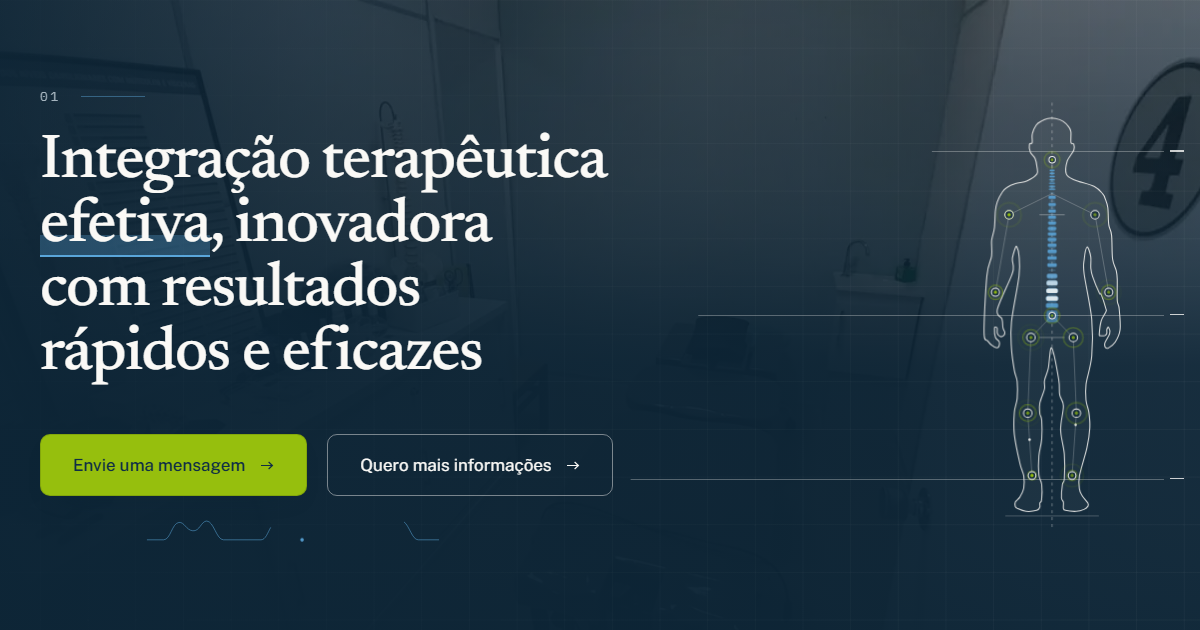
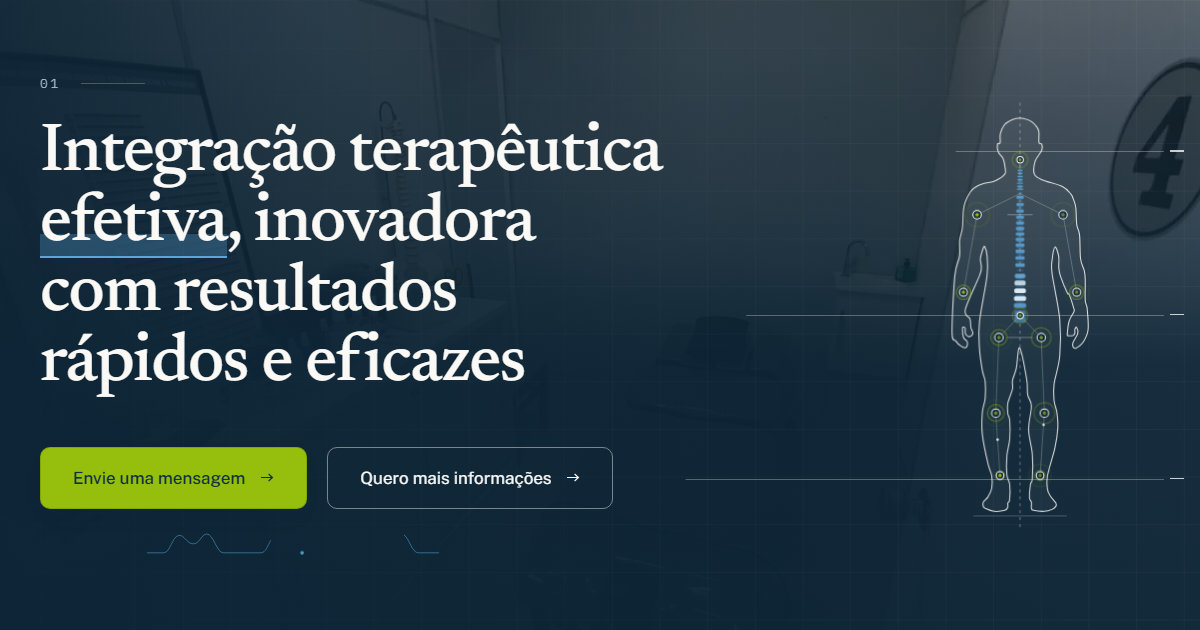
hero: bloco e figura mais a esquerda, titulo maior
Titulo: 60 -> 64 em sm, 62 -> 68 em lg, 76 -> 83 em xl. Os dois degraus
mais estreitos (34 e 40) ficam como estavam: em 320 e 390 a linha mais
larga ja usa quase toda a caixa, e crescer ali quebraria a quebra
escrita. A linha mais larga passou de 566 para 621 em lg e de 694 para
758 em xl.

Texto a esquerda: o contentor do hero vai a 1340px em lg, contra os
1240px das outras treze bandas. Isso tira 50px em 1440 e 1600, 20px em
1280 e nada em 1024, onde o texto ja esta na goteira de 40px da grade e
nao tem para onde ir sem sair dela. Efeito colateral, assumido: nessas
larguras a margem esquerda do hero nao bate mais com a do cabecalho nem
com a das secoes abaixo.

Figura a esquerda: a margem direita sobe de 64/64/70/110 para
96/108/148/188px em 1024/1280/1440/1600. A figura anda 32/44/78/78px
para dentro.

O campo da peca foi recalculado da geometria nova, senao as reguas
entrariam no titulo. As constantes agora incluem o recuo do contentor,
max(0, (100vw - 1340) / 2), porque a faixa xl atravessa o limite de
1340: em 1280 o recuo e' zero e em 1440 e' 50. Medido: o campo comeca
exatamente 24px depois do fim do titulo nas quatro larguras grandes.

Verificado no build de producao em 320, 390, 768, 1024, 1280, 1440 e
1600: sem rolagem horizontal; CLS 0 (0,0006 em 1280); contraste do
titulo por pixel de glifo entre 6,53 e 6,64, botao primario 6,5,
secundario >= 6,8; figura inteira dentro da secao e o bbox do conteudo
[…]

diff --git a/src/components/hero.tsx b/src/components/hero.tsx
@@ -50,7 +50,13 @@ export function Hero() {
           de coluna. */}
       <PageGrid tone="deep" crescente />
 
-      <div className="mx-auto grid max-w-[1240px] grid-cols-1 items-center gap-0 px-6 pt-20 pb-16 lg:min-h-[calc(100svh-92px)] lg:grid-cols-12 lg:gap-6 lg:px-10 lg:py-16 lg:[@media(max-height:860px)]:py-7">
+      {/* O hero e' a unica banda com contentor mais largo que os 1240px do
+          resto da pagina: 1340 em lg. E' o que traz o bloco de texto para a
+          esquerda (50px em 1440 e 1600, 20px em 1280, nada em 1024, onde o
+          texto ja esta na goteira de 40px da grade). O preco e' que a
+          margem esquerda do hero nao bate mais com a do cabecalho e a das
+          secoes abaixo nessas larguras. Foi pedido. */}
+      <div className="mx-auto grid max-w-[1240px] grid-cols-1 items-center gap-0 px-6 pt-20 pb-16 lg:min-h-[calc(100svh-92px)] lg:max-w-[1340px] lg:grid-cols-12 lg:gap-6 lg:px-10 lg:py-16 lg:[@media(max-height:860px)]:py-7">
         <div className="relative z-10 lg:col-span-9">
           <div className="rule-in" style={{ ["--in-delay" as string]: "80ms" }}>
             <SectionMark n="01" tone="deep" destaque />
@@ -69,7 +75,7 @@ export function Hero() {
             mesma antes e depois: linhas x corpo x entrelinha, sem CLS.
           */}
           <h1
-            className="rule-in mt-9 font-display lg:mt-11 [@media(max-height:860px)]:mt-6 text-[34px] min-[390px]:text-[40px] sm:text-[60px] lg:text-[62px] xl:text-[76px] leading-[1.03] font-medium tracking-[-0.025em] text-paper"
+            className="rule-in mt-9 font-display lg:mt-11 [@media(max-height:860px)]:mt-6 text-[34px] min-[390px]:text-[40px] sm:text-[64px] lg:text-[68px] xl:text-[83px] leading-[1.03] font-medium tracking-[-0.025em] text-paper"
             style={{ ["--in-delay" as string]: "220ms" }}
           >
             <span className="block">
@@ -125,26 +131,33 @@ export function Hero() {
         {/*
           O campo da peca grafica: contrapeso do bloco de titulo. A peca nao
           passa por baixo do texto: o campo comeca 24px depois do fim da
-          linha mais larga do titulo e vai ate a borda da janela. A margem
-          direita e' metade da margem do contentor ((50vw - 580px) / 2), com
-          piso de 64px. As constantes vem da geometria do titulo: em lg a
-          linha mais larga termina em 606px (pad 40 + 566); em xl, em
-          50vw + 114 (contentor centrado + 694). Se o corpo do titulo mudar,
-          estes dois calc mudam junto.
+          linha mais larga do titulo e vai ate a borda da janela.
 
-          A figura e' vertical (240 x 560), entao a escala vem da altura do
+          As constantes do calc saem da geometria medida do titulo, e sao a
+          soma "recuo do contentor + 40 de padding + linha mais larga + 24
+          de folga". A linha mais larga muda no degrau de corpo: 621px em lg
+          (68px), 758px em xl (83px). O recuo do contentor e'
+          max(0, (100vw - 1340) / 2), zero ate 1340 e crescente depois; por
+          isso ele entra no calc de xl, que e' a unica faixa que atravessa
+          esse limite (1280 sem recuo, 1440 com 50). Se o corpo do titulo
+          ou o max-w do contentor mudar, estes dois calc mudam junto.
+
+          A margem direita afasta a peca da borda da janela: 96 / 108 / 148 /
+          188px em 1024 / 1280 / 1440 / 1600. Foi aumentada para trazer a
+          figura para a esquerda.
+
+          A figura e' vertical (221 x 560), entao a escala vem da altura do
           hero, nao da largura do campo: altura = altura do hero menos 112px
           (56px acima e abaixo), teto de 760px; a largura segue a proporcao.
-          Em 1024 x 768 da 242 x 564; em 1440 x 900, 298 x 696. O campo
-          sempre sobra em largura, entao a folga com o titulo fica acima do
-          minimo medido (23px) em todas as faixas.
+          O campo sempre sobra em largura, entao a folga com o titulo fica
+          acima do minimo medido (23px) em todas as faixas.
 
           Abaixo de lg entra no fluxo, depois da curva de marcha, centrada e
           limitada a min(44vw, 200px): 141px em 320, 172 em 390, 200 em 768.
         */}
         <div
           aria-hidden="true"
-          className="pointer-events-none relative mx-auto mt-12 w-[min(78vw,320px)] lg:absolute lg:inset-y-0 lg:right-0 lg:m-0 lg:flex lg:w-[calc(100vw-630px)] lg:items-center lg:justify-end lg:pr-[max(64px,25vw_-_290px)] xl:w-[calc(50vw-138px)]"
+          className="pointer-events-none relative mx-auto mt-12 w-[min(78vw,320px)] lg:absolute lg:inset-y-0 lg:right-0 lg:m-0 lg:flex lg:w-[calc(100vw_-_685px)] lg:items-center lg:justify-end lg:pr-[max(96px,25vw_-_212px)] xl:w-[calc(100vw_-_max(0px,(100vw_-_1340px)/2)_-_822px)]"
         >
           {/* Linhas de referencia da versao com a coluna em SVG: 1px em papel a
               0,3, com o traco curto de 14px x 1,4px na ponta direita, mais
